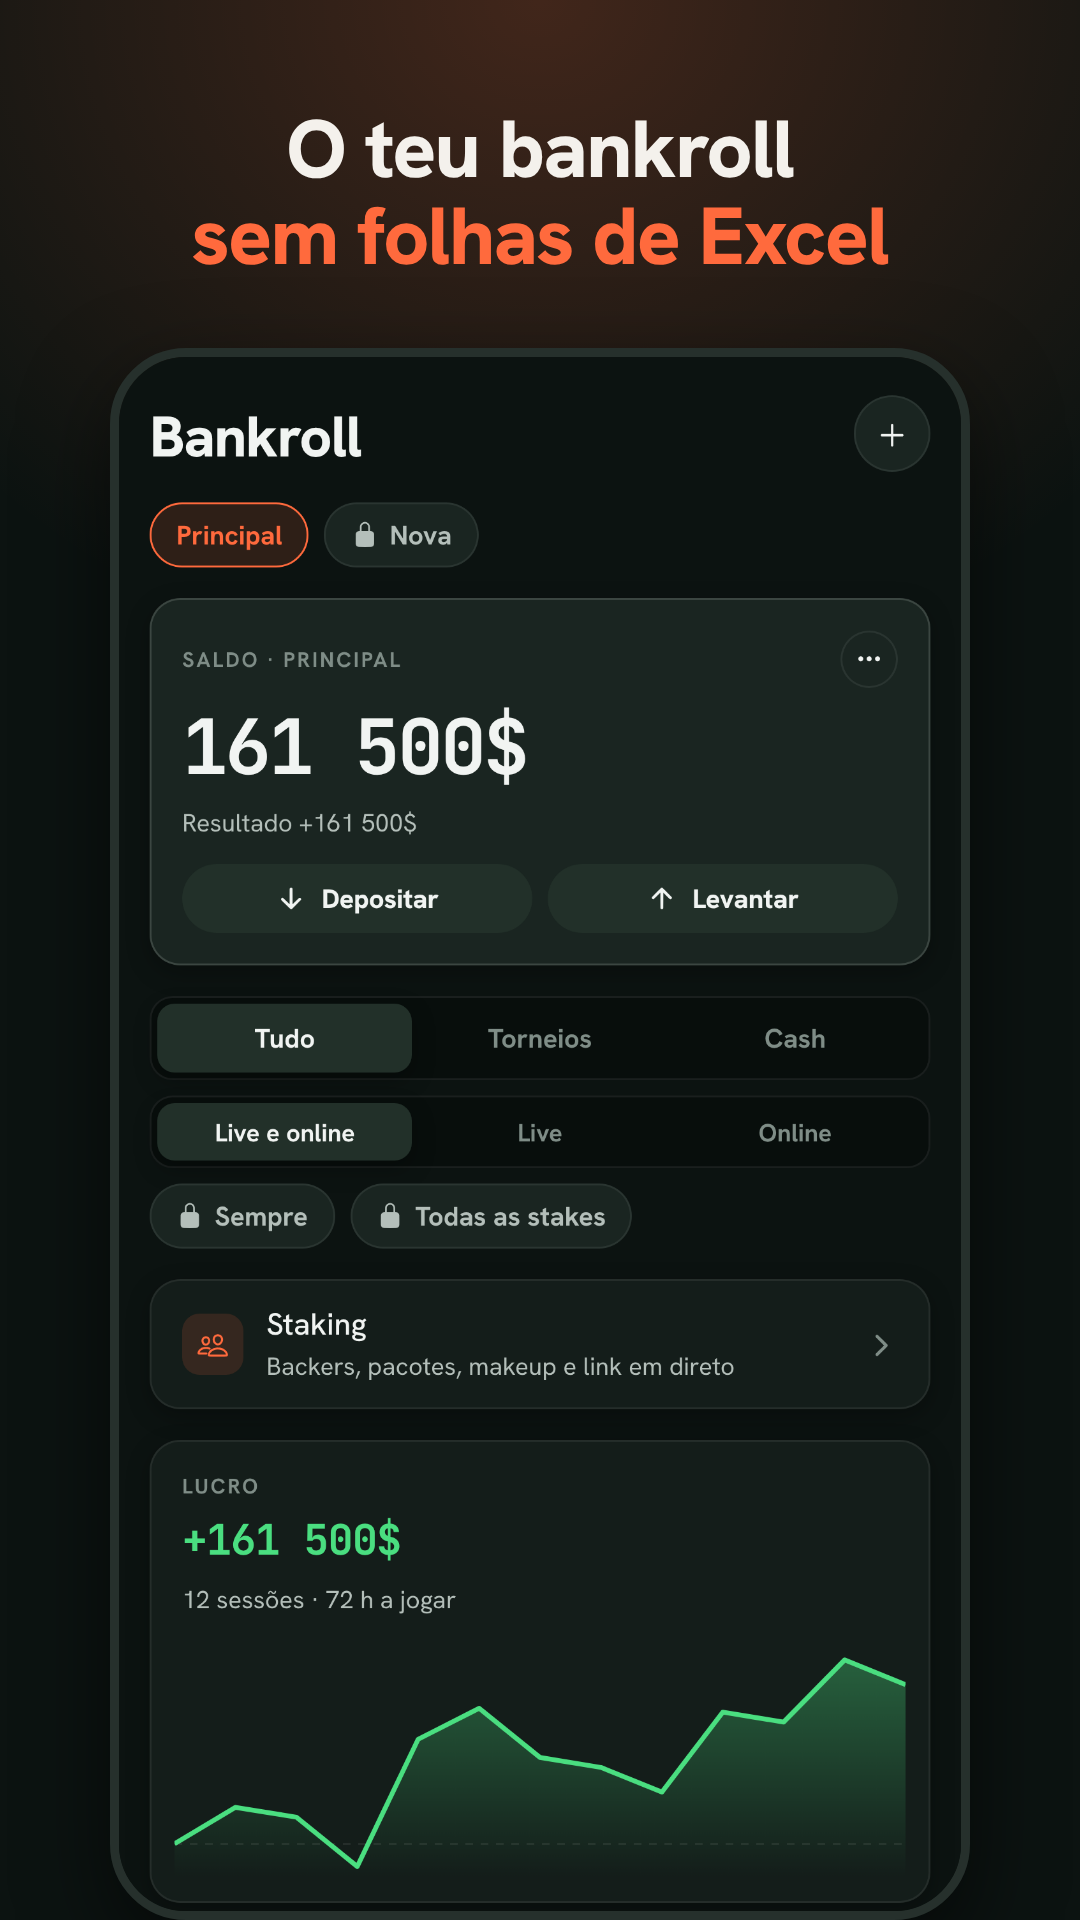
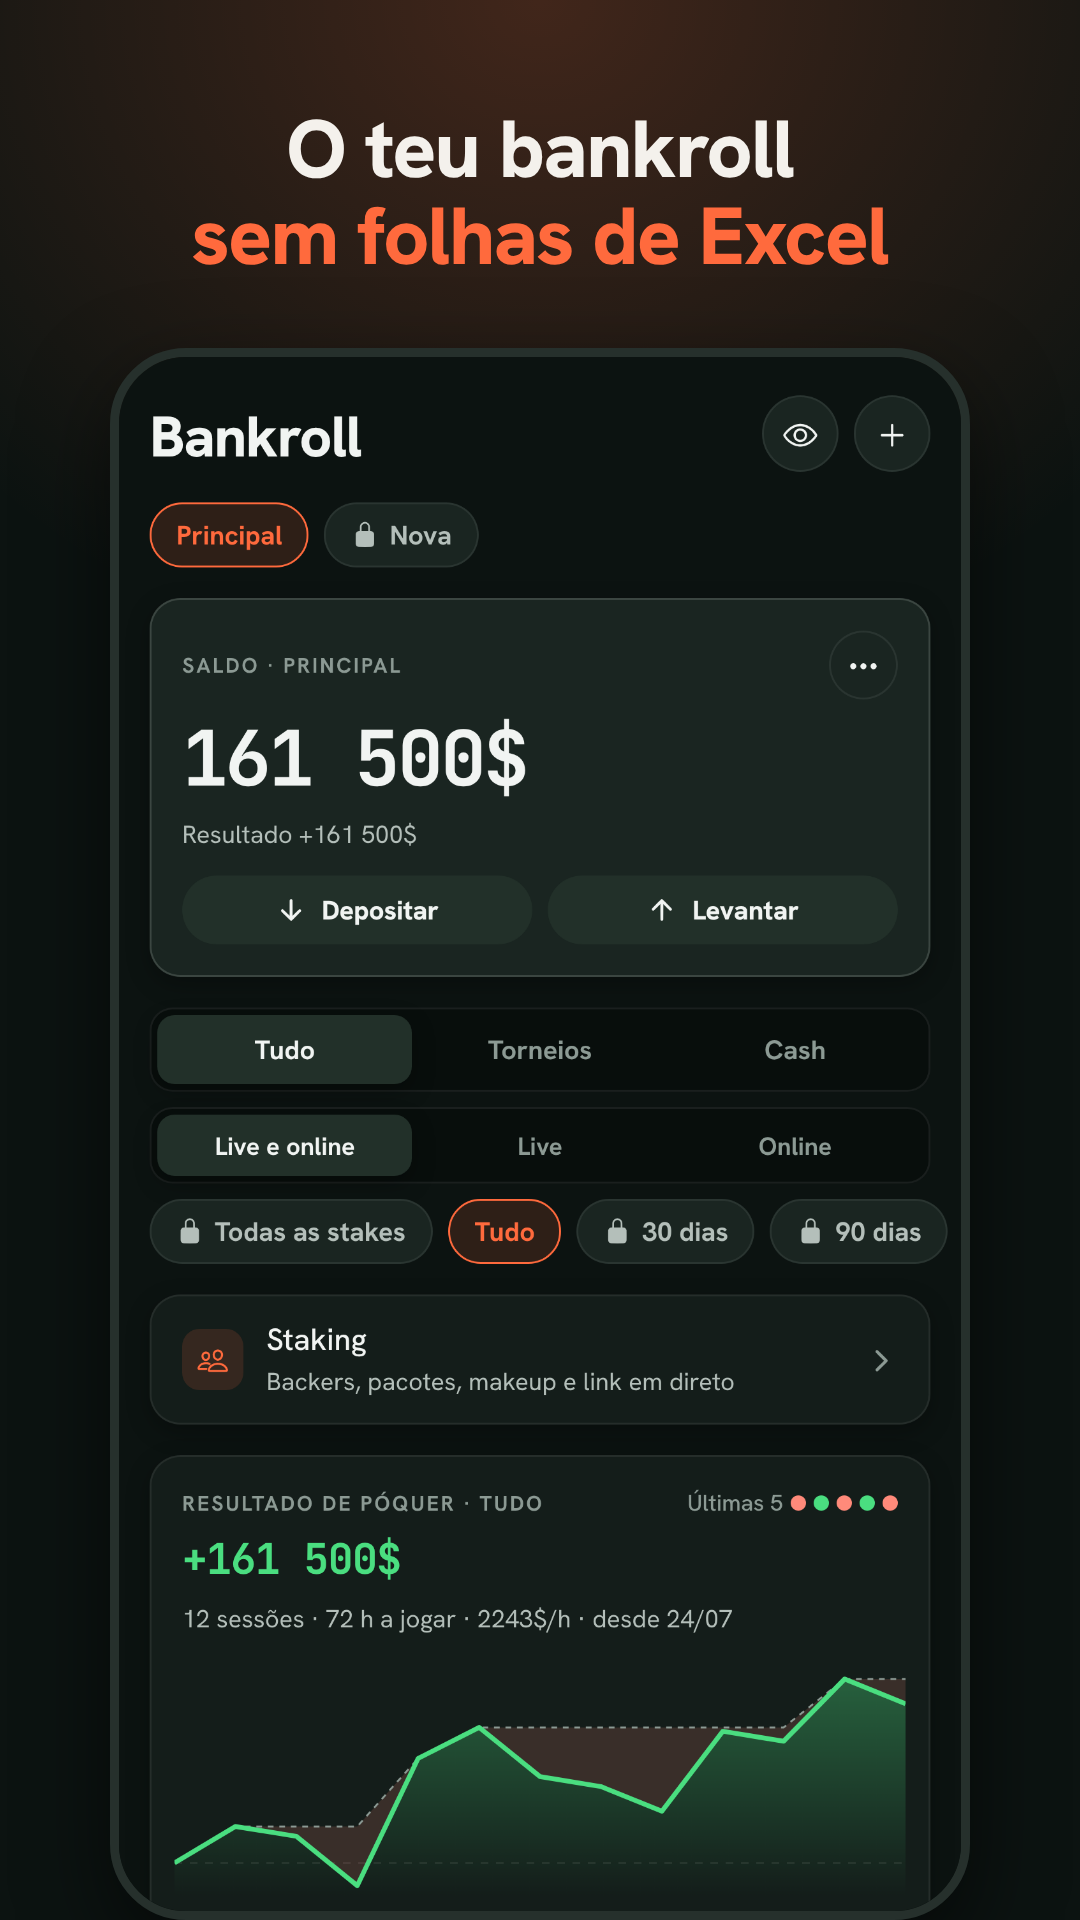
Store: re-render screenshots at 2d301d9 without the offline pill; list odds, festival and variance tools
The renderer now answers outside requests with an empty 204 so the app sees
itself online (the sandbox has no route to the backend). Review notes list the
PDF/CSV report and variance paywall triggers; precheck notes the festival brand.

Claude-Session: https://claude.ai/code/session_0177dvFNXGEXkTvQzutfngpT

diff --git a/store/review-risks.md b/store/review-risks.md
@@ -22,7 +22,7 @@ A hand tracker is not gambling. Reviewers see "poker" and check for money.
 - Copy says "logging and study tool, no real-money gaming" (already in listing and terms).
 - Review notes (paste into App Review Information → Notes):
 
-  > This app is a notebook for players of live (in-person) poker. Users record hands they played at a casino and replay them to study. There is no gameplay, no real-money or simulated gambling and no betting. The only purchase is the optional Sweatbook Pro subscription (monthly, or yearly with a 1-week free trial). No account is needed. The free tier saves 3 hands per day; the Sweatbook Pro paywall appears when saving the 4th hand of the day, when choosing the 30d/90d/1-year or stake bankroll filters, when creating a second bankroll, when recording a voice note or removing the watermark on an Instagram Story, when exporting sessions to CSV in Settings, or from Settings → "Ver o Sweatbook Pro" at any time, and can be tested with a sandbox account. The home screen offers a sample hand ("Ver uma mão de exemplo" / "See a sample hand") that plays in the replayer. To test sharing, log a hand with the + button (about ten taps), open it and tap Share; the link opens a web replayer with comments and votes. Optional cloud backup is in Settings → Cloud backup and needs no account (it gives a recovery code). The app is in Portuguese and English and follows the device language. Comments can be reported and the hand owner can delete the hand with all its comments.
+  > This app is a notebook for players of live (in-person) poker. Users record hands they played at a casino and replay them to study. There is no gameplay, no real-money or simulated gambling and no betting. The only purchase is the optional Sweatbook Pro subscription (monthly, or yearly with a 1-week free trial). No account is needed. The free tier saves 3 hands per day; the Sweatbook Pro paywall appears when saving the 4th hand of the day, when choosing the 30d/90d/1-year or stake bankroll filters, when creating a second bankroll, when recording a voice note or removing the watermark on an Instagram Story, when exporting a PDF or CSV report (Settings → "Relatório PDF e CSV"), when filling the variance calculator from your own sessions (Bankroll → variance calculator), or from Settings → "Ver o Sweatbook Pro" at any time, and can be tested with a sandbox account. The home screen offers a sample hand ("Ver uma mão de exemplo" / "See a sample hand") that plays in the replayer. To test sharing, log a hand with the + button (about ten taps), open it and tap Share; the link opens a web replayer with comments and votes. Optional cloud backup is in Settings → Cloud backup and needs no account (it gives a recovery code). The app is in Portuguese and English and follows the device language. Comments can be reported and the hand owner can delete the hand with all its comments.
 
 - Avoid casino imagery that suggests play money: no slot icons, chip-stack "win" animations, or "jackpot" wording in screenshots.
 

diff --git a/store/listing/pt-PT.md b/store/listing/pt-PT.md
@@ -47,6 +47,9 @@ PARA QUEM JOGA LIVE
 • Um link em direto para os teus backers seguirem o stack e o nível durante a sessão
 • Importa as tuas sessões de outras apps de póquer ou de qualquer CSV
 • Calculadora de deal para a mesa final (ICM e chip chop)
+• Calculadora de odds: a tua mão contra uma mão ou um range, sem rede
+• Planeador de festivais: escolhe os eventos, vê o total contra o bankroll e recebe aviso antes do fim do late reg
+• Calculadora de variância para cash e torneios
 • Leituras dos jogadores da tua mesa durante a sessão
 • Sem contas: as tuas mãos ficam no teu telemóvel
 • Cópia de segurança na nuvem opcional e cifrada, com código de recuperação e sem email
@@ -54,7 +57,7 @@ PARA QUEM JOGA LIVE
 • Disponível em português e inglês
 
 SWEATBOOK PRO
-Grátis: até 3 mãos guardadas por dia. Com o Sweatbook Pro tens mãos ilimitadas, vários bankrolls, todos os filtros de bankroll (30 dias, 90 dias, 1 ano, por stake), a exportação de sessões em CSV e Stories com a tua voz e sem marca de água. Subscrição mensal ou anual; o plano anual começa com 1 semana grátis para novos subscritores. O pagamento é cobrado na tua conta Apple quando confirmas a compra. A subscrição renova-se automaticamente, a não ser que a canceles pelo menos 24 horas antes do fim do período, nas definições da tua conta.
+Grátis: até 3 mãos guardadas por dia. Com o Sweatbook Pro tens mãos ilimitadas, vários bankrolls, todos os filtros de bankroll (30 dias, 90 dias, 1 ano, por stake), relatórios em PDF e CSV e Stories com a tua voz e sem marca de água. Subscrição mensal ou anual; o plano anual começa com 1 semana grátis para novos subscritores. O pagamento é cobrado na tua conta Apple quando confirmas a compra. A subscrição renova-se automaticamente, a não ser que a canceles pelo menos 24 horas antes do fim do período, nas definições da tua conta.
 
 {{APP_NAME}} é uma ferramenta de registo e estudo. Não permite apostar nem jogar a dinheiro.
 

diff --git a/store/listing/en-US.md b/store/listing/en-US.md
@@ -47,6 +47,9 @@ BUILT FOR LIVE PLAYERS
 • A live link for your backers to follow your stack and level during the session
 • Import your sessions from other poker apps or any CSV
 • Final-table deal calculator (ICM and chip chop)
+• Odds calculator: your hand against a hand or a range, offline
+• Festival planner: pick your events, see the total against your bankroll, get reminded before late reg closes
+• Variance calculator for cash and tournaments
 • Reads on the players at your table during the session
 • No account needed: your hands stay on your phone
 • Optional encrypted cloud backup with a recovery code, no email required
@@ -54,7 +57,7 @@ BUILT FOR LIVE PLAYERS
 • Available in English and Portuguese
 
 SWEATBOOK PRO
-Free: up to 3 saved hands per day. Sweatbook Pro unlocks unlimited hands, multiple bankrolls, every bankroll filter (30 days, 90 days, 1 year, by stake), session export to CSV and voice-over Instagram Stories without the watermark. Monthly or yearly subscription; the yearly plan starts with a 1-week free trial for new subscribers. Payment is charged to your Apple account at confirmation of purchase. The subscription renews automatically unless cancelled at least 24 hours before the end of the current period in your account settings.
+Free: up to 3 saved hands per day. Sweatbook Pro unlocks unlimited hands, multiple bankrolls, every bankroll filter (30 days, 90 days, 1 year, by stake), PDF and CSV reports and voice-over Instagram Stories without the watermark. Monthly or yearly subscription; the yearly plan starts with a 1-week free trial for new subscribers. Payment is charged to your Apple account at confirmation of purchase. The subscription renews automatically unless cancelled at least 24 hours before the end of the current period in your account settings.
 
 {{APP_NAME}} is a logging and study tool. It does not offer real-money gaming or betting of any kind.
 

diff --git a/store/review-precheck.md b/store/review-precheck.md
@@ -20,3 +20,6 @@ Checked against `claude/live-poker-app-mvp-kdke3g` @ 22e4870. ✓ = OK in code, 
 - ✓ No sensitive permissions (location/storage blocked); the microphone only comes from expo-audio, at runtime.
 - ✓ Data safety and deletion URL in `privacy-forms.md`; IARC as Utility, not a Game.
 - ⚠ **Closed test with 12 testers for 14 days**: mandatory if Rui's Play account is **personal and created after 13 Nov 2023**. If so, the Android version **can't go public within 24h**: the minimum is 14 days of testing, and only then can he request production access (Google reviews that in about 7 days). iOS isn't affected. Steps in the checklist (`o-que-precisa-do-rui.md`, block 6).
+
+## Festival planner (added at 2d301d9)
+- The planner ships with a published festival schedule whose name includes a real event brand (`src/poker/festivals.ts`). Showing a public schedule inside the app is factual use, but App Review can ask for proof of rights under 5.2.1 if the brand looks like an endorsement. Keep the brand out of store metadata and screenshots (it is), and don't use its logo. If a reviewer objects, rename the entry to a generic label ("Bahamas festival, Dec 2026").
